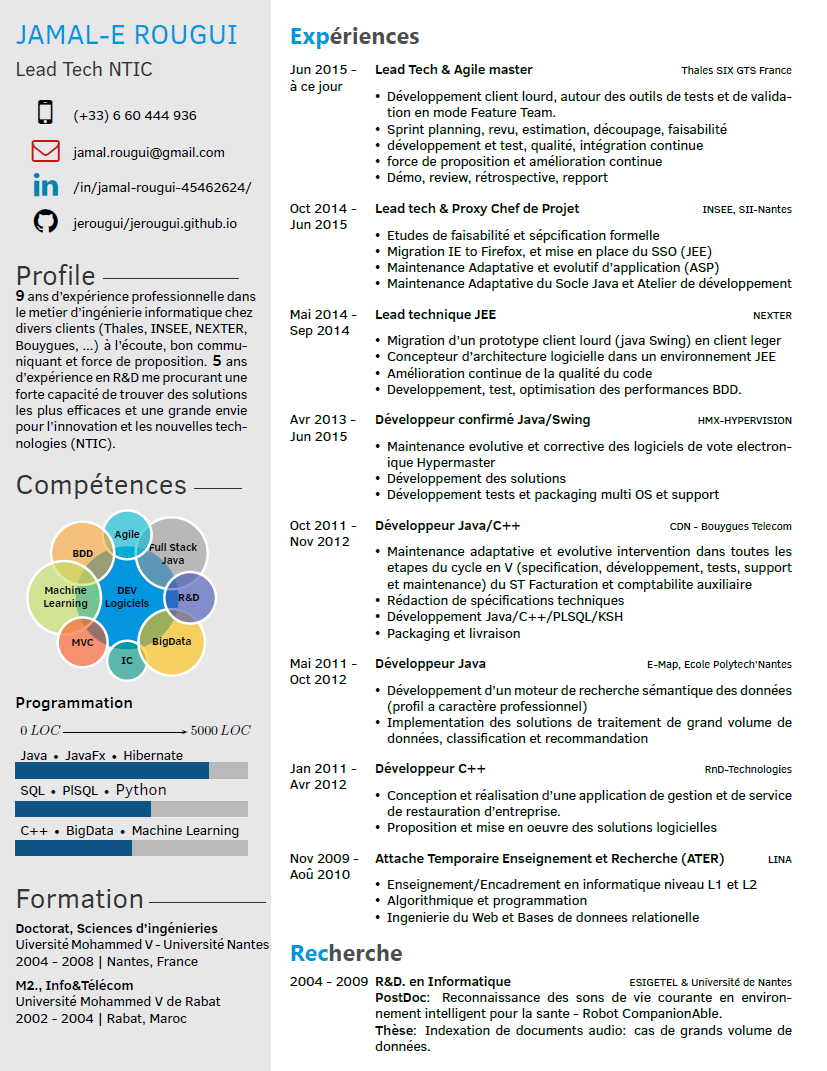
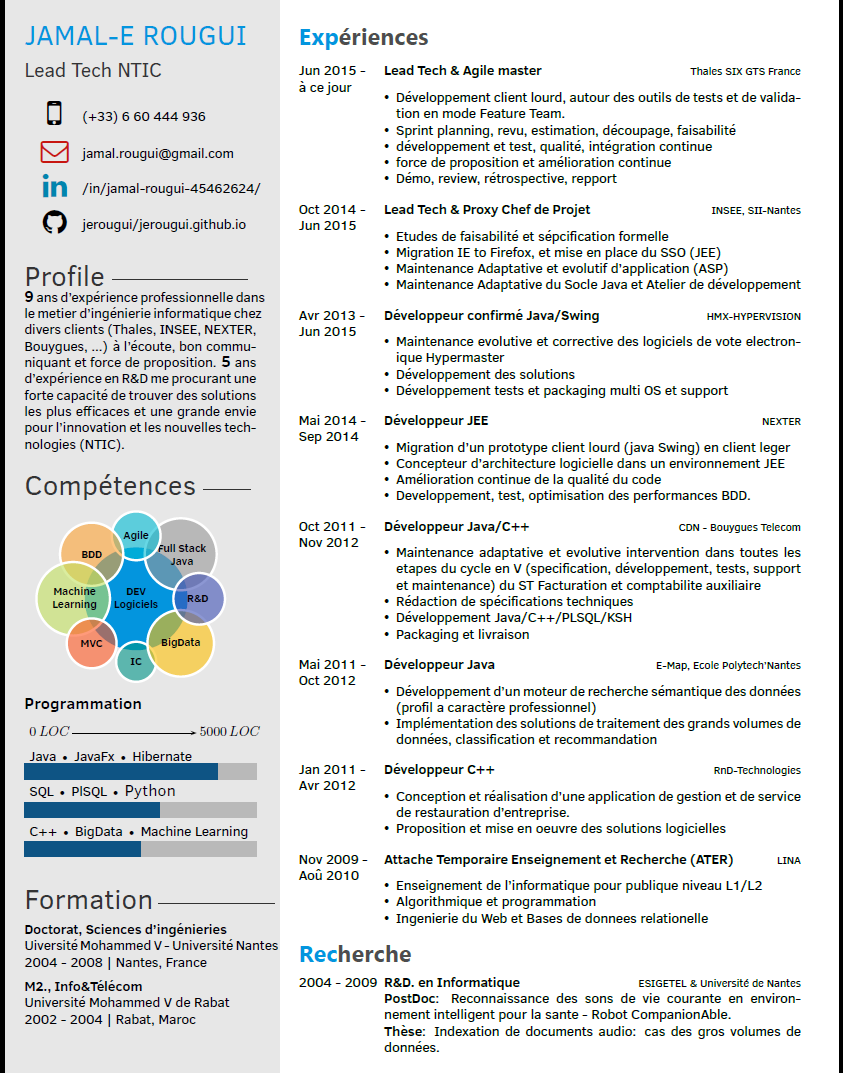
fix typo and indentation

diff --git a/template.tex b/template.tex
@@ -102,7 +102,7 @@ Université Mohammed V de Rabat \\
 	\twentyitem
     	{Oct 2014 -}
 		{Jun 2015}
-        {Lead tech \& Proxy Chef de Projet}
+        {Lead Tech \& Proxy Chef de Projet}
         {\href{https://www.insee.fr/fr/accueil}{INSEE, SII-Nantes}}
         {}
         {
@@ -111,21 +111,6 @@ Université Mohammed V de Rabat \\
 		\item Migration IE to Firefox, et mise en place du SSO (JEE)
 		\item Maintenance Adaptative et evolutif d'application (ASP)
 		\item Maintenance Adaptative du Socle Java et Atelier de développement
-    	\end{itemize}}
-        }
-    \\   
-    \twentyitem
-   		{Mai 2014 -}
-		{Sep 2014}
-        {Lead technique JEE}
-        {\href{https://www.nexter-group.fr/}{NEXTER}}
-        {}
-        {
-        {\begin{itemize}
-     	\item Migration d'un prototype client lourd (java Swing) en client leger
-     	\item Concepteur d'architecture logicielle dans un environnement JEE
-     	\item Amélioration continue de la qualité du code
-     	\item Developpement, test, optimisation des performances BDD.
     	\end{itemize}}
         }
      \\
@@ -142,65 +127,79 @@ Université Mohammed V de Rabat \\
         \item Développement tests et packaging multi OS et support
     	\end{itemize}
     	}
-        
-       \\
-    \twentyitem
-    {Oct 2011 -}
-    {Nov 2012}
-    {Développeur Java/C++}
-    {\href{https://www.jobs.bouyguestelecom.fr/}{CDN - Bouygues Telecom}}
-    {}
-    {
-    \begin{itemize}
-    \item Maintenance adaptative et evolutive intervention dans toutes les etapes du cycle en V (specification, développement, tests, support et maintenance) du ST Facturation et comptabilite auxiliaire
-    \item Rédaction de spécifications techniques
-    \item Développement Java/C++/PLSQL/KSH
-    \item Packaging et livraison	
-    \end{itemize}
-    }
-    
-       \\
-    \twentyitem
-    {Mai 2011 -}
-    {Oct 2012}
-    {Développeur Java}
-    {\href{}{E-Map, Ecole Polytech'Nantes}}
-    {}
-    {
-    	\begin{itemize}
-    		\item Développement d'un moteur de recherche sémantique des données (profil a caractère professionnel)
-    		\item Implementation des solutions de traitement de grand volume de données, classification et recommandation	
-    	\end{itemize}
-    }
-
-   \\
-    \twentyitem
-    {Jan 2011 -}
-    {Avr 2012}
-    {Développeur C++}
-    {\href{}{RnD-Technologies}}
-    {}
-    {
-    \begin{itemize}
-	\item Conception et réalisation d'une application de gestion et de service de restauration d'entreprise.
-	\item Proposition et mise en oeuvre des solutions logicielles	
-    \end{itemize}
-    }
-
-       \\
-	\twentyitem
-	{Nov 2009 -}
-	{Aoû 2010}
-	{Attache Temporaire Enseignement et Recherche (ATER)}
-	{\href{http://www.lina.univ-nantes.fr/}{LINA}}
-	{}
-	{
+	\\   
+		\twentyitem
+		{Mai 2014 -}
+		{Sep 2014}
+		{Développeur JEE}
+		{\href{https://www.nexter-group.fr/}{NEXTER}}
+		{}
+		{
 		\begin{itemize}
-			\item Enseignement/Encadrement en informatique niveau L1 et L2
-			\item Algorithmique et programmation
-			\item Ingenierie du Web et Bases de donnees relationelle
+		\item Migration d'un prototype client lourd (java Swing) en client leger
+		\item Concepteur d'architecture logicielle dans un environnement JEE
+		\item Amélioration continue de la qualité du code
+		\item Developpement, test, optimisation des performances BDD.
 		\end{itemize}
-	}
+		}       
+       \\
+	    \twentyitem
+	    {Oct 2011 -}
+	    {Nov 2012}
+	    {Développeur Java/C++}
+	    {\href{https://www.jobs.bouyguestelecom.fr/}{CDN - Bouygues Telecom}}
+	    {}
+	    {
+	    \begin{itemize}
+	    \item Maintenance adaptative et evolutive intervention dans toutes les etapes du cycle en V (specification, développement, tests, support et maintenance) du ST Facturation et comptabilite auxiliaire
+	    \item Rédaction de spécifications techniques
+	    \item Développement Java/C++/PLSQL/KSH
+	    \item Packaging et livraison	
+	    \end{itemize}
+	    }
+    
+	   \\
+	    \twentyitem
+	    {Mai 2011 -}
+	    {Oct 2012}
+	    {Développeur Java}
+	    {\href{}{E-Map, Ecole Polytech'Nantes}}
+	    {}
+	    {
+	    \begin{itemize}
+	    \item Développement d'un moteur de recherche sémantique des données (profil a caractère professionnel)
+	    \item Implémentation des solutions de traitement des grands volumes de données, classification et recommandation	
+	    \end{itemize}
+	    }
+
+	   \\
+	    \twentyitem
+	    {Jan 2011 -}
+	    {Avr 2012}
+	    {Développeur C++}
+	    {\href{}{RnD-Technologies}}
+	    {}
+	    {
+	    \begin{itemize}
+		\item Conception et réalisation d'une application de gestion et de service de restauration d'entreprise.
+		\item Proposition et mise en oeuvre des solutions logicielles	
+	    \end{itemize}
+	    }
+
+	   \\
+		\twentyitem
+		{Nov 2009 -}
+		{Aoû 2010}
+		{Attache Temporaire Enseignement et Recherche (ATER)}
+		{\href{http://www.lina.univ-nantes.fr/}{LINA}}
+		{}
+		{
+		\begin{itemize}
+		\item Enseignement de l'informatique pour publique niveau L1/L2
+		\item Algorithmique et programmation
+		\item Ingenierie du Web et Bases de donnees relationelle
+		\end{itemize}
+		}
 	%\twentyitem{<dates>}{<title>}{<location>}{<description>}
 \end{twenty}
 
@@ -217,7 +216,7 @@ Université Mohammed V de Rabat \\
         {}
 	       {
 	        \textbf{PostDoc}: Reconnaissance des sons de vie courante en environnement intelligent pour la sante - Robot CompanionAble. \\
-	       	\textbf{Thèse}: Indexation de documents audio: cas de grands volume de données.
+	       	\textbf{Thèse}: Indexation de documents audio: cas des gros volumes de données.
 	        {
 	        %\begin{itemize}
 	        %\item 
